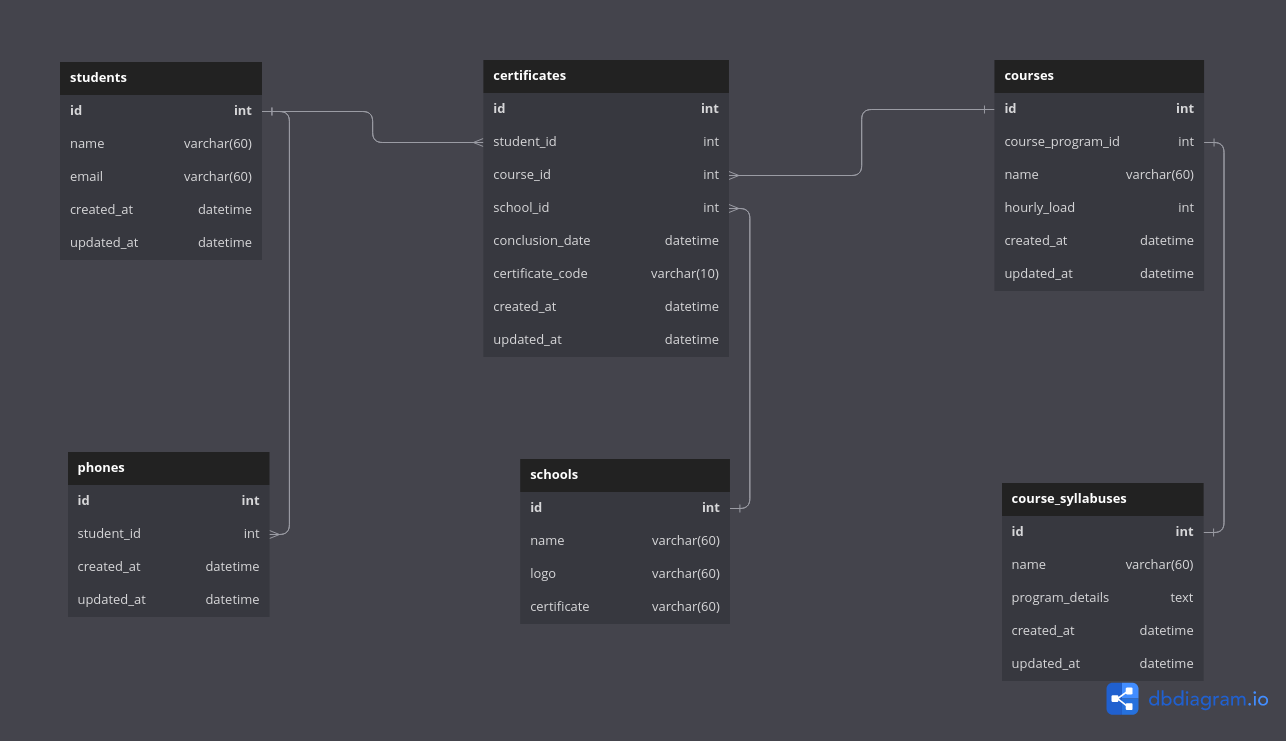
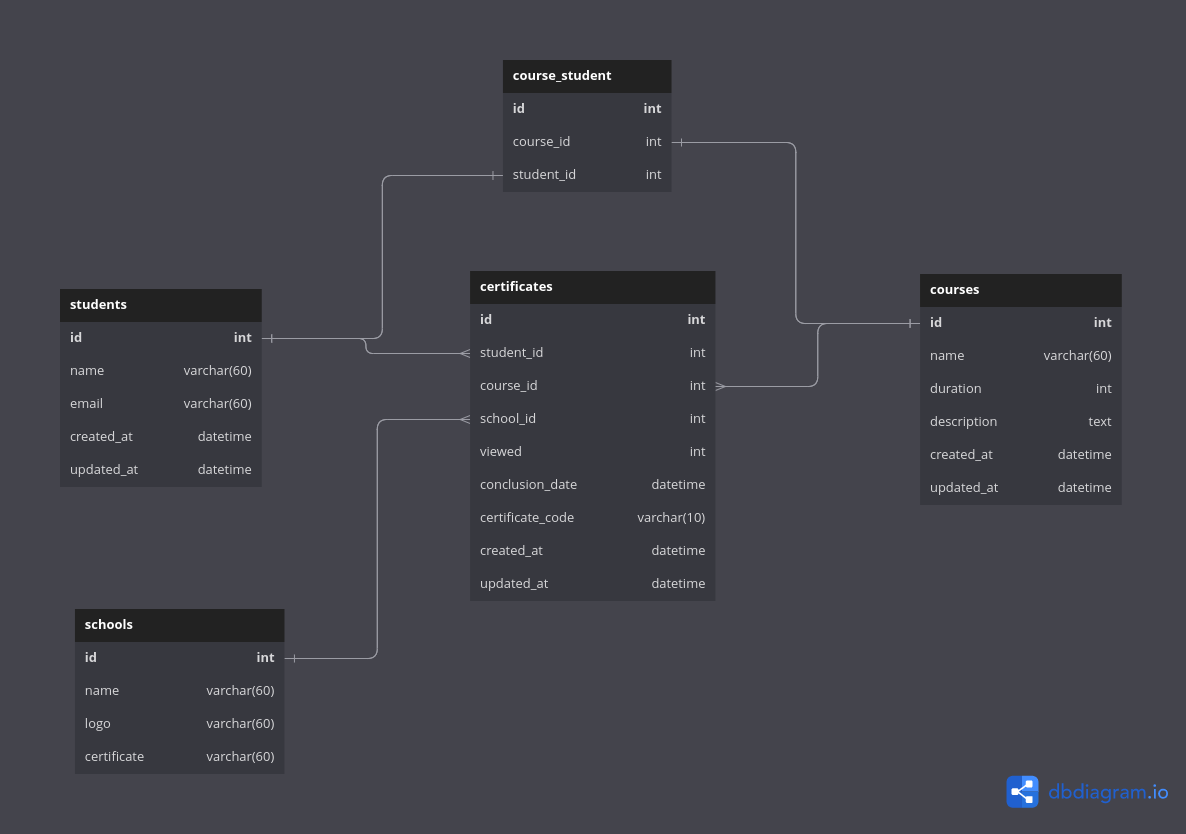
docs: Diagramação do banco de dados

diff --git a/README.md b/README.md
@@ -19,6 +19,7 @@
 - Idealização do projeto e desenho do diagrama de banco de dados
 - Preparando o ambiente de desenvolvimento instalando plugins uteis:
 Artisan Pint, PHPInsights
+- Refatoração do diagrama de banco de dados
 
 ## License
 
